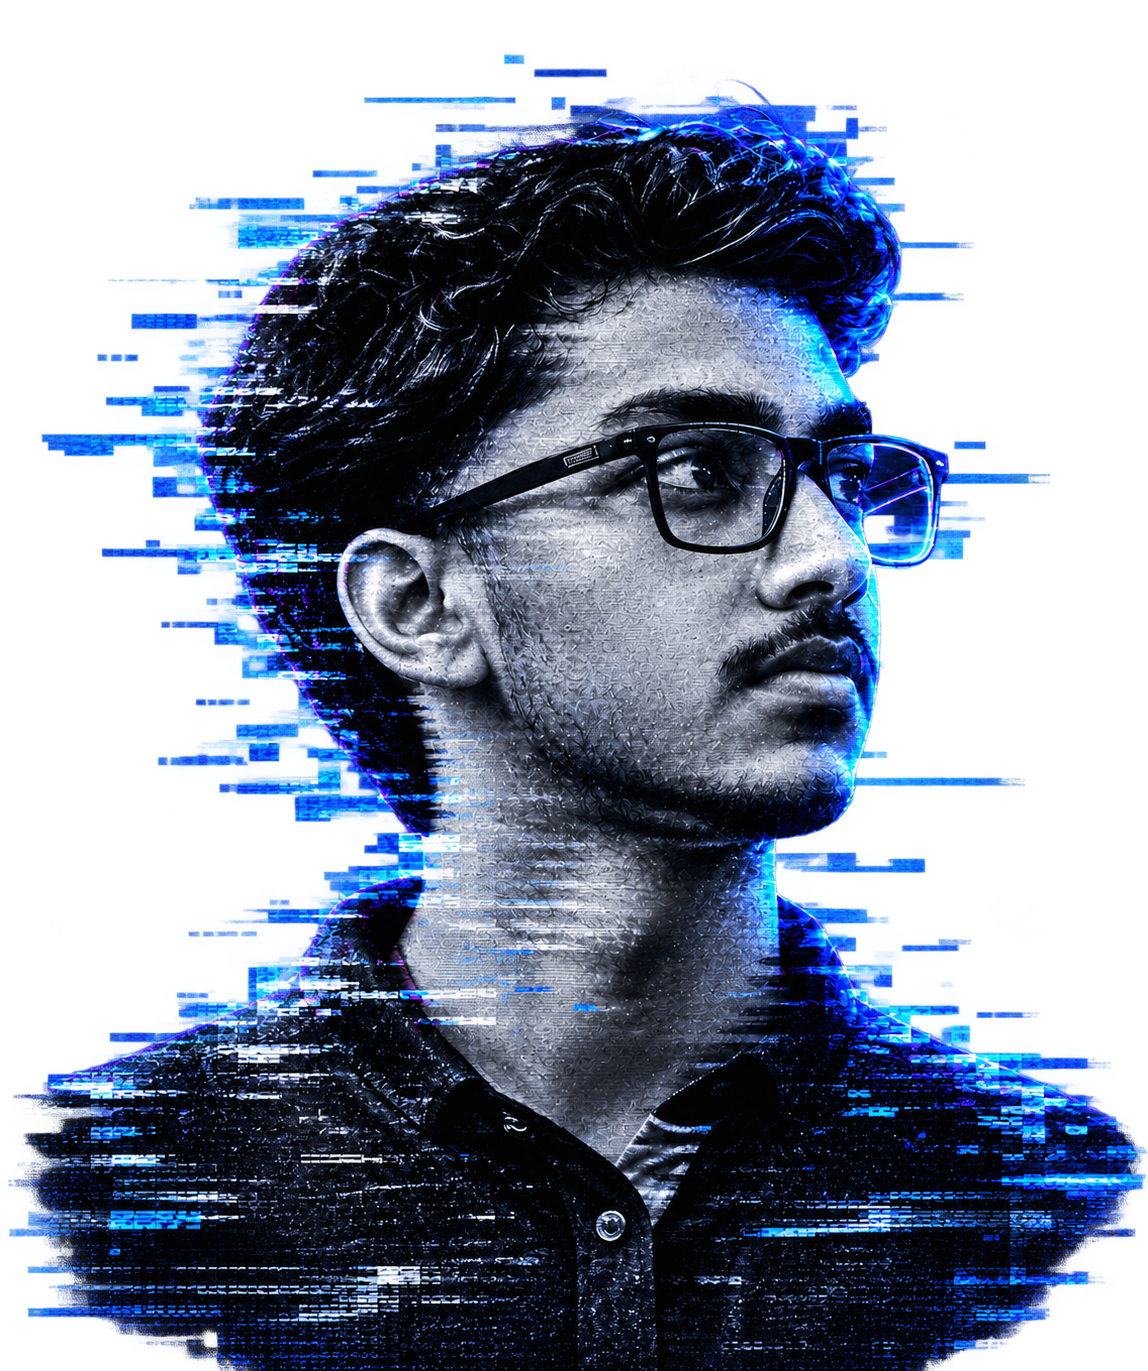
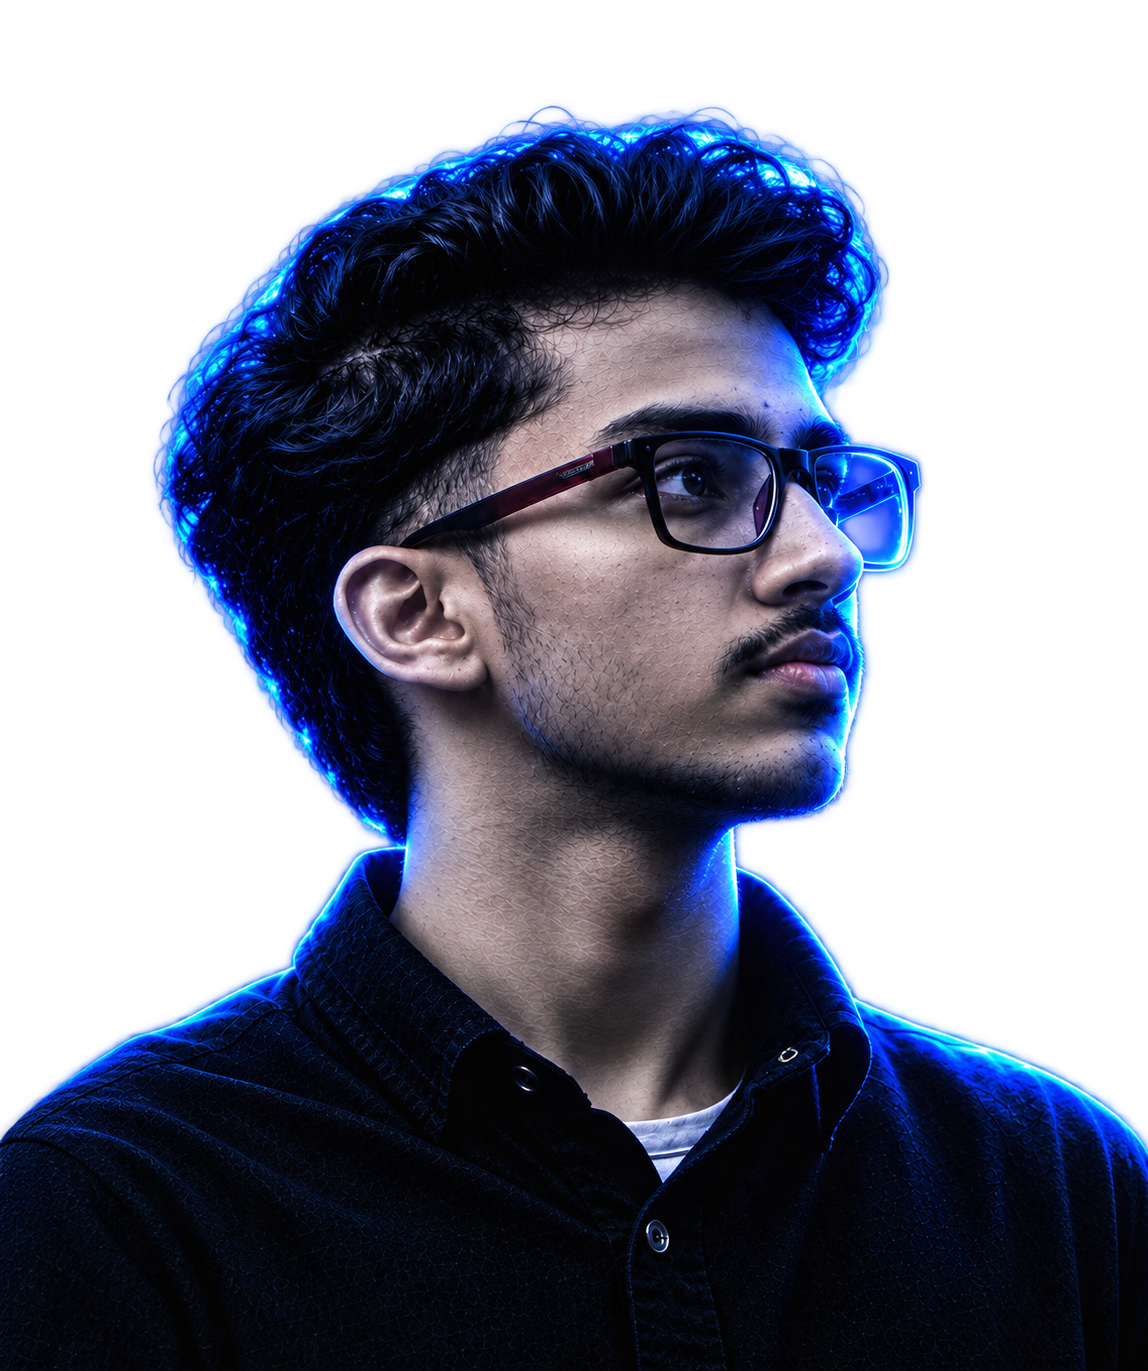
About polishing

diff --git a/bijoy-portfolio/src/pages/About/About.css b/bijoy-portfolio/src/pages/About/About.css
@@ -1078,4 +1078,10 @@ mask-image: radial-gradient(
   .about-footer {
     margin-top: 30px;
   }
+
+}
+
+/* REMOVE PORTRAIT GLITCH BARS */
+.about-portrait-glitch {
+  display: none !important;
 }
